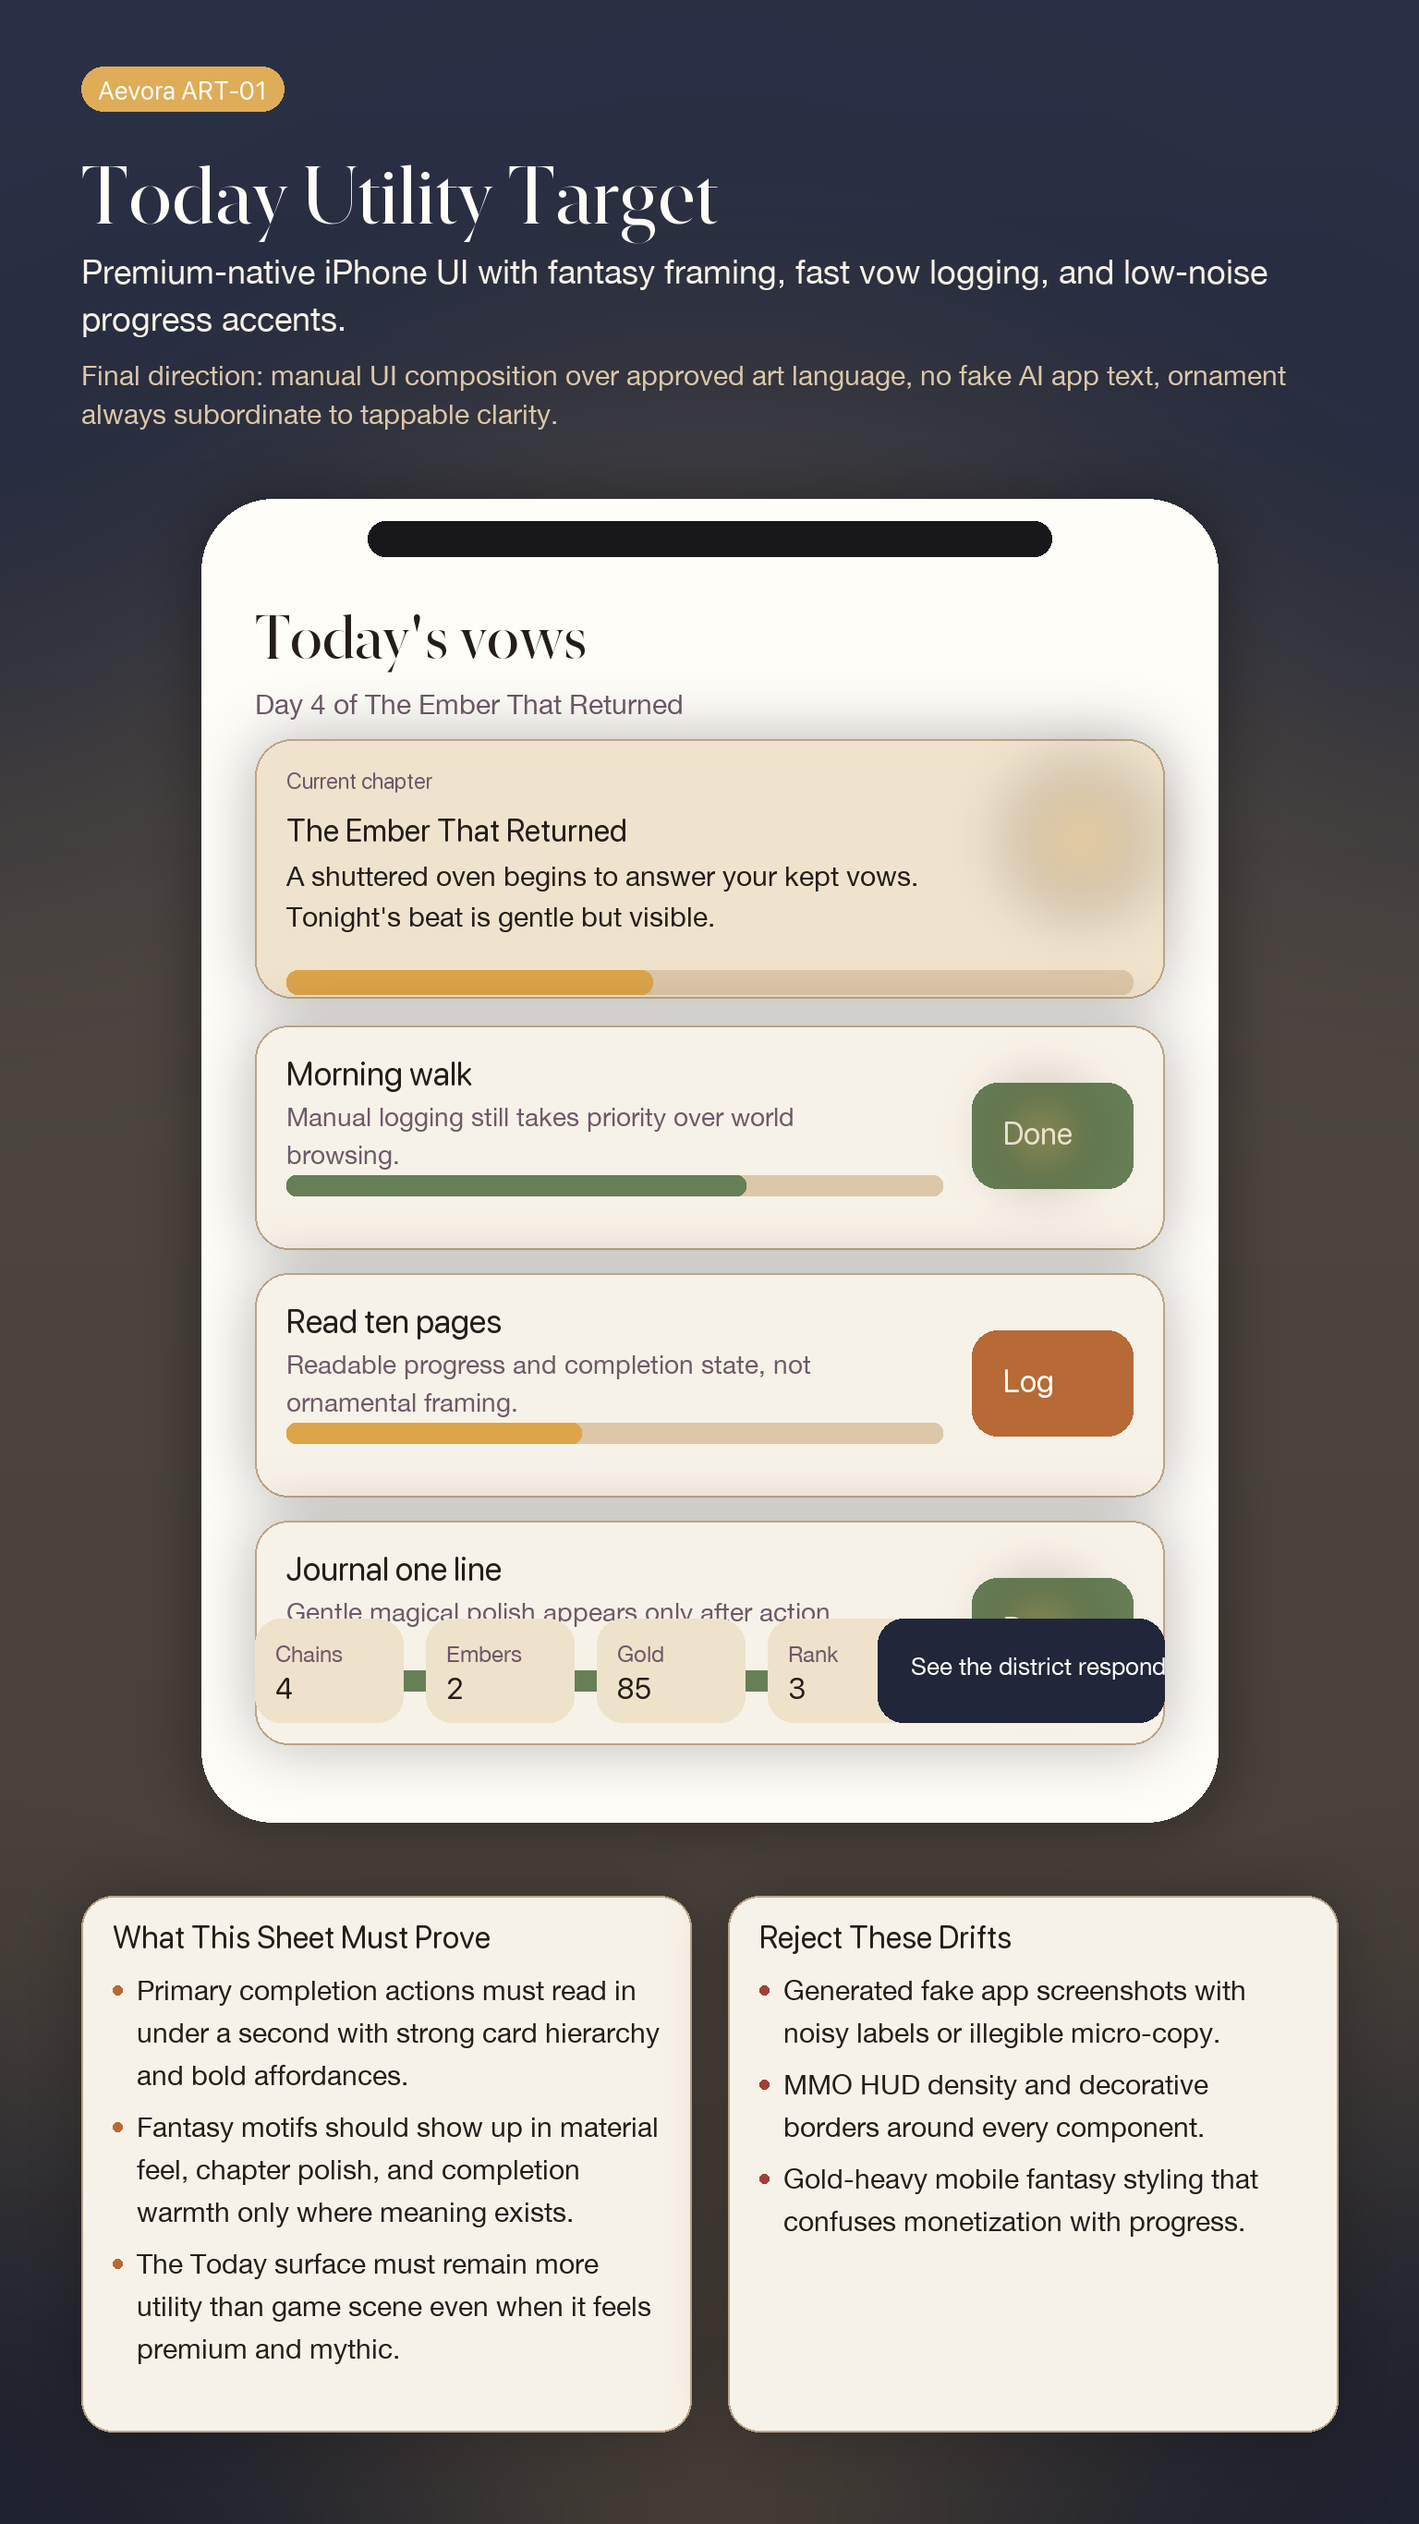
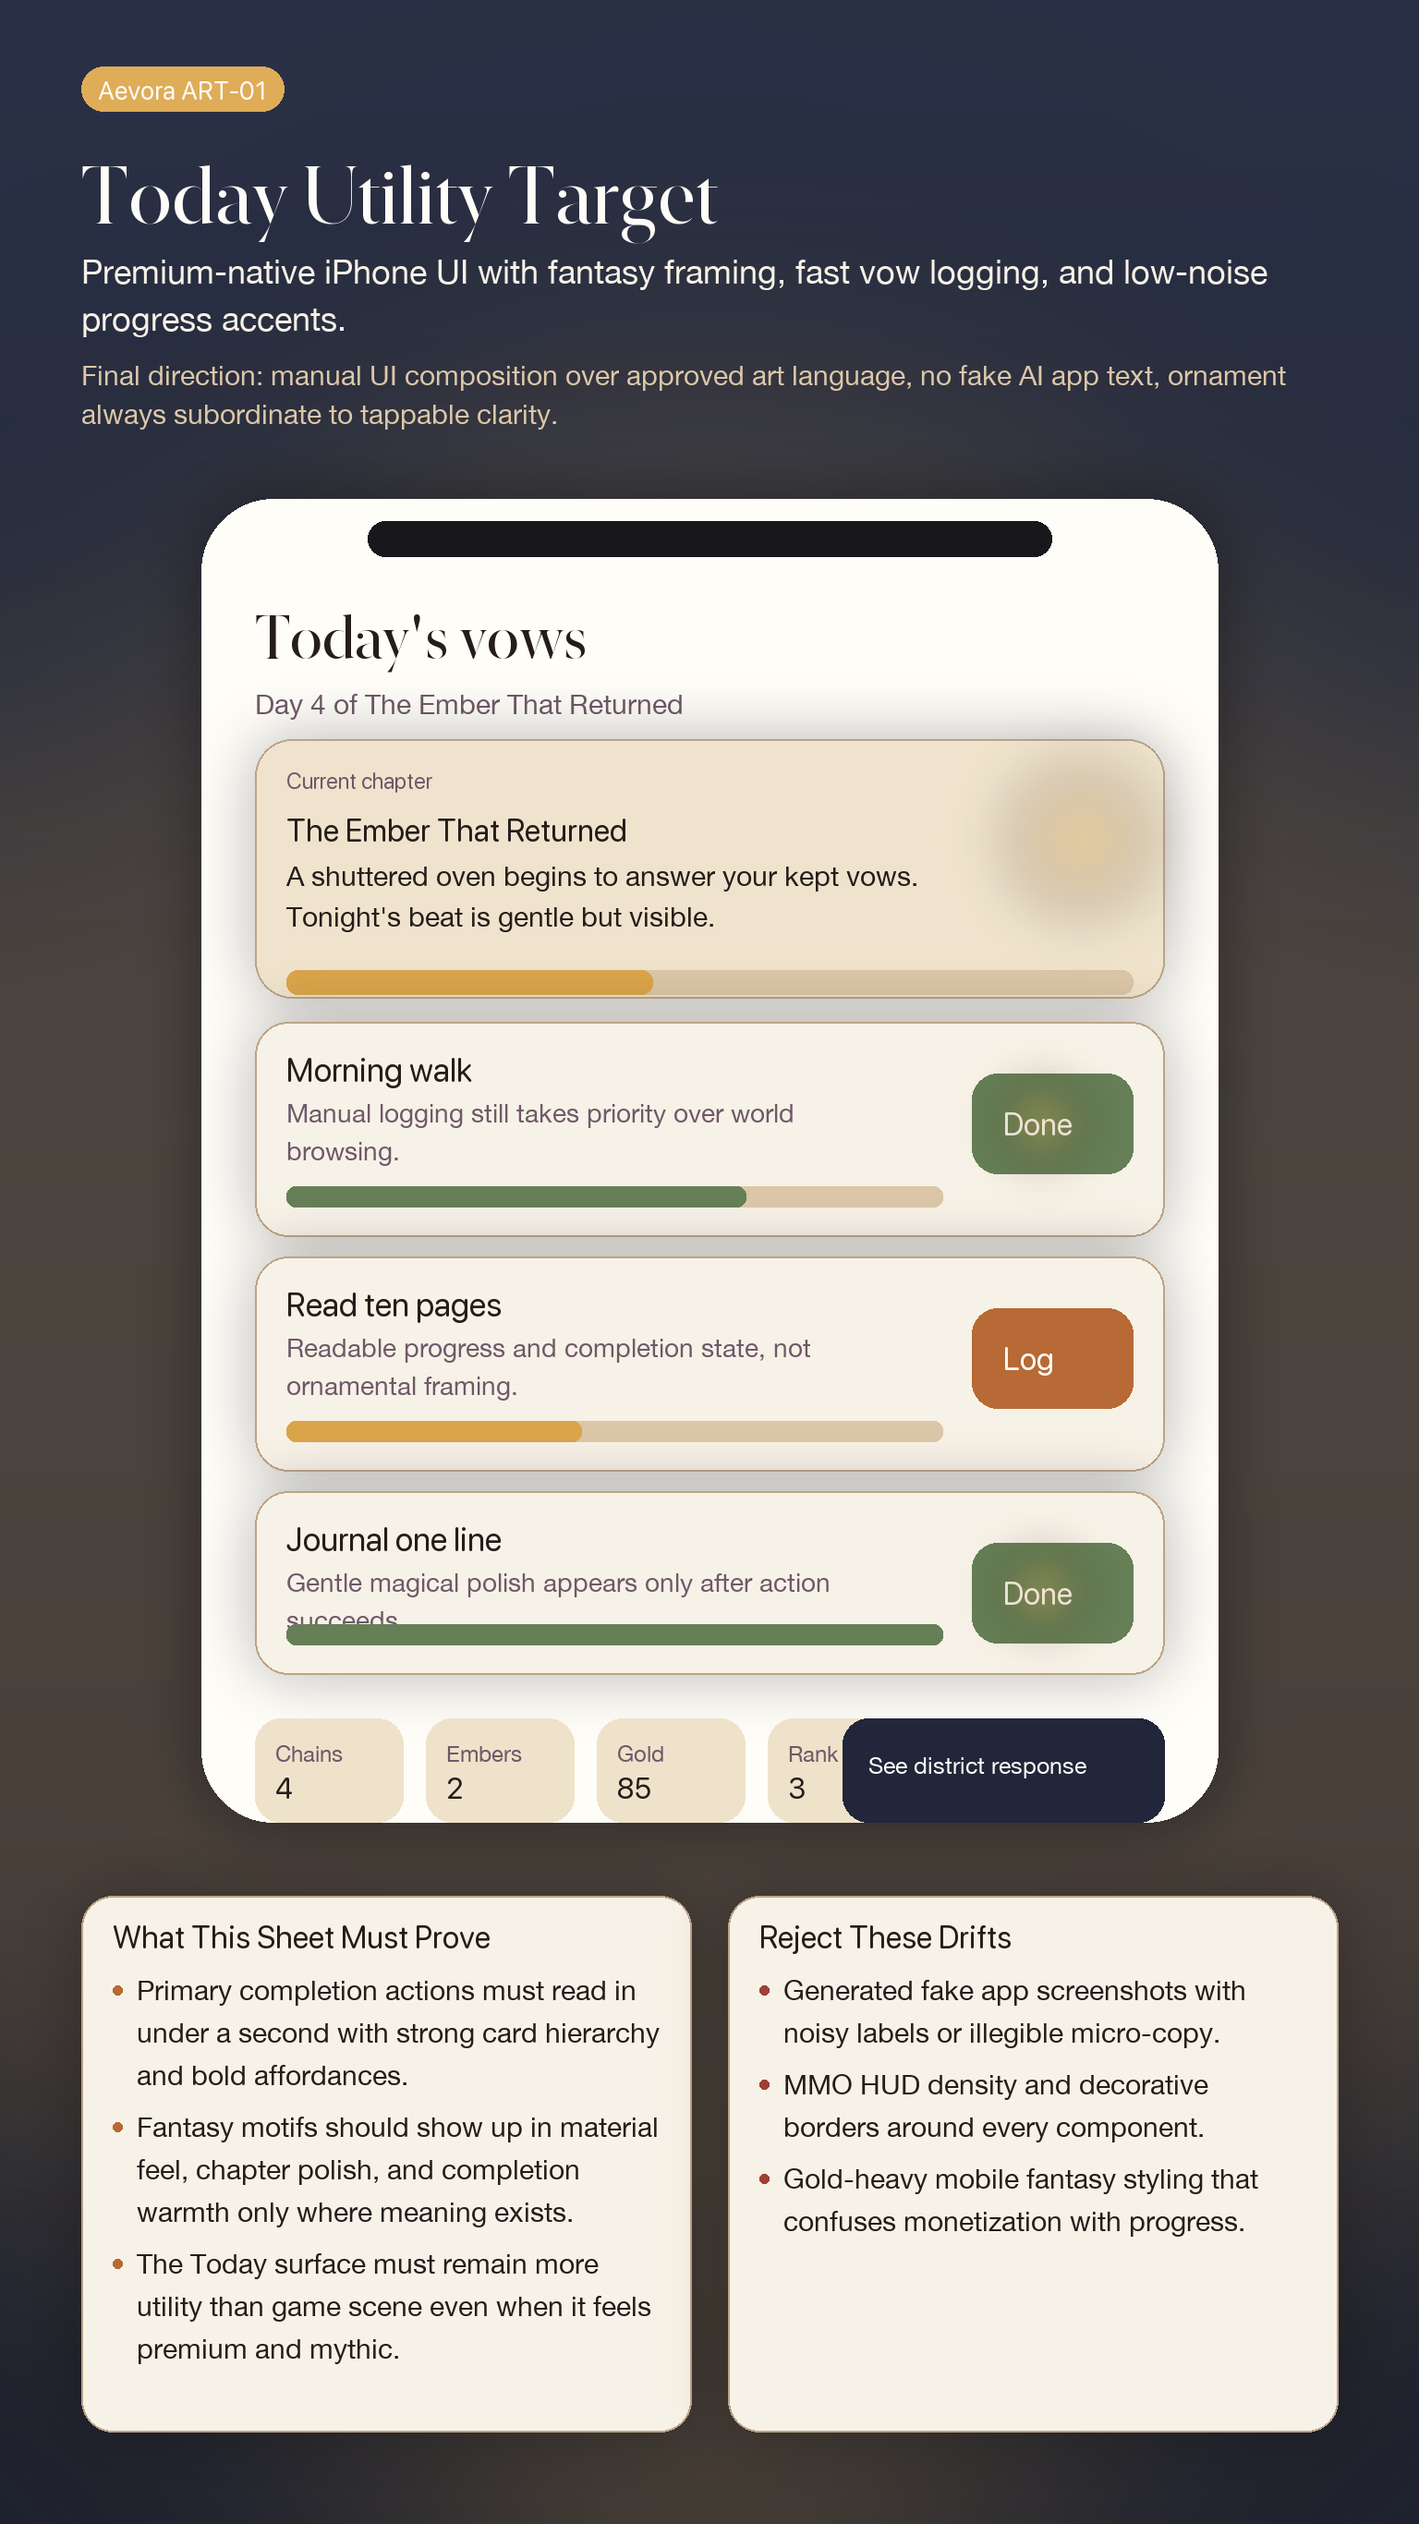
Finalize ART-01 cleanup rerender

Changed region(s): [[0.1562, 0.4045, 0.8438, 0.7467]]

diff --git a/ops/assets/art/generate_art_01_target_sheets.py b/ops/assets/art/generate_art_01_target_sheets.py
@@ -269,25 +269,35 @@ def draw_world_sheet() -> None:
     sigil = sigil.filter(ImageFilter.GaussianBlur(4))
     image.alpha_composite(sigil)
 
-    draw.rounded_rectangle((230, 1380, 1260, 1550), radius=30, fill=rgba(PALETTE["cream"], 214))
-    draw.text((270, 1422), "Repair-state cue: soot clears, lantern warmth returns, bustle grows, geometry resolves.", font=font("body", 34), fill=rgba(PALETTE["ink"]))
+    callout_box = (214, 1366, 964, 1566)
+    draw.rounded_rectangle(callout_box, radius=30, fill=rgba(PALETTE["cream"], 222))
+    draw.text((250, 1402), "Repair-state cue", font=font("accent", 28), fill=rgba(PALETTE["ash"]))
+    draw_text_block(
+        draw,
+        "Soot clears. Lantern warmth returns. Bustle grows. Geometry resolves into order.",
+        (250, 1442),
+        font("body", 31),
+        rgba(PALETTE["ink"]),
+        620,
+        line_gap=6,
+    )
 
-    inset_box = (1080, 1380, 1365, 1660)
+    inset_box = (1048, 1450, 1324, 1690)
     panel(image, inset_box, PALETTE["indigo_deep"], PALETTE["stone"], radius=30)
-    draw.text((1116, 1412), "Before / After", font=font("accent", 28), fill=rgba(PALETTE["cream"]))
-    draw.rounded_rectangle((1114, 1464, 1220, 1608), radius=18, fill=rgba(PALETTE["ash"]))
-    draw.rounded_rectangle((1234, 1464, 1340, 1608), radius=18, fill=rgba(PALETTE["moss"]))
-    glow_circle(image, (1288, 1528), 42, PALETTE["dawn"], 120)
+    draw.text((1076, 1482), "Before / After", font=font("accent", 26), fill=rgba(PALETTE["cream"]))
+    draw.rounded_rectangle((1080, 1534, 1188, 1652), radius=18, fill=rgba(PALETTE["ash"]))
+    draw.rounded_rectangle((1198, 1534, 1306, 1652), radius=18, fill=rgba(PALETTE["moss"]))
+    glow_circle(image, (1252, 1592), 38, PALETTE["dawn"], 120)
 
     for x, y, fill in [(640, 1250, PALETTE["parchment"]), (885, 1010, PALETTE["moss"]), (1125, 1015, PALETTE["parchment"])]:
         draw.ellipse((x - 22, y - 22, x + 22, y + 22), fill=rgba(fill))
         draw.rectangle((x - 10, y + 22, x + 10, y + 54), fill=rgba(fill))
 
     swatches = [("Moon Indigo", PALETTE["indigo"]), ("Dawn Gold", PALETTE["dawn"]), ("Ember Copper", PALETTE["ember"]), ("Moss Green", PALETTE["moss"])]
-    base_x = MARGIN
+    base_x = 84
     for label, color in swatches:
-        swatch(draw, label, color, (base_x, 1610))
-        base_x += 170
+        swatch(draw, label, color, (base_x, 1720))
+        base_x += 190
 
     footer_notes(image, meta)
     image.save(OUT_DIR / meta.filename)
@@ -425,18 +435,37 @@ def draw_npc_sheet() -> None:
         row = index // 3
         x = start_x + col * gap_x
         y = start_y + row * gap_y
-        panel(image, (x, y, x + 330, y + 320), PALETTE["cream"], PALETTE["stone"], radius=28)
-        draw.ellipse((x + 104, y + 40, x + 226, y + 162), fill=rgba(accent))
-        draw.rounded_rectangle((x + 80, y + 152, x + 250, y + 282), radius=28, fill=rgba(PALETTE["indigo"], 180))
+        panel(image, (x, y, x + 330, y + 344), PALETTE["cream"], PALETTE["stone"], radius=28)
+        draw.ellipse((x + 104, y + 30, x + 226, y + 152), fill=rgba(accent))
+        draw.rounded_rectangle((x + 80, y + 134, x + 250, y + 244), radius=28, fill=rgba(PALETTE["indigo"], 180))
         if name == "Pollen":
-            glow_circle(image, (x + 170, y + 120), 72, PALETTE["dawn"], 140)
-            draw.polygon([(x + 110, y + 120), (x + 150, y + 90), (x + 136, y + 148)], fill=rgba(PALETTE["cream"]))
-            draw.polygon([(x + 230, y + 120), (x + 190, y + 90), (x + 204, y + 148)], fill=rgba(PALETTE["cream"]))
+            glow_circle(image, (x + 170, y + 106), 60, PALETTE["dawn"], 130)
+            draw.polygon([(x + 118, y + 106), (x + 150, y + 80), (x + 138, y + 136)], fill=rgba(PALETTE["cream"]))
+            draw.polygon([(x + 222, y + 106), (x + 190, y + 80), (x + 202, y + 136)], fill=rgba(PALETTE["cream"]))
+            draw.arc((x + 124, y + 118, x + 216, y + 206), start=15, end=150, fill=rgba(PALETTE["cream"]), width=8)
         else:
-            draw.rectangle((x + 152, y + 188, x + 178, y + 250), fill=rgba(accent))
-        draw.text((x + 26, y + 232), name, font=font("accent", 25), fill=rgba(PALETTE["ink"]))
-        draw.text((x + 26, y + 266), role, font=font("body", 23), fill=rgba(PALETTE["ash"]))
-        draw.text((x + 26, y + 292), prop, font=font("body", 21), fill=rgba(PALETTE["ember"]))
+            draw.rectangle((x + 154, y + 166, x + 176, y + 224), fill=rgba(accent))
+
+        prop_y = y + 214
+        if name == "Maerin Vale":
+            draw.ellipse((x + 42, prop_y, x + 82, prop_y + 40), fill=rgba(PALETTE["ember"]))
+        elif name == "Sera Quill":
+            draw.rectangle((x + 38, prop_y - 2, x + 84, prop_y + 34), fill=rgba(PALETTE["silver"]))
+            draw.line([(x + 46, prop_y + 10), (x + 76, prop_y + 10)], fill=rgba(PALETTE["indigo"]), width=3)
+        elif name == "Tovan Hearth":
+            draw.rectangle((x + 40, prop_y + 6, x + 52, prop_y + 56), fill=rgba(PALETTE["ember"]))
+            draw.ellipse((x + 34, prop_y, x + 58, prop_y + 18), fill=rgba(PALETTE["dawn"]))
+        elif name == "Brigant Hal":
+            draw.rectangle((x + 40, prop_y - 2, x + 50, prop_y + 58), fill=rgba(PALETTE["moss"]))
+            draw.polygon([(x + 50, prop_y + 2), (x + 74, prop_y + 12), (x + 50, prop_y + 22)], fill=rgba(PALETTE["silver"]))
+        elif name == "Ilya Fen":
+            draw.rectangle((x + 36, prop_y, x + 84, prop_y + 38), fill=rgba(PALETTE["stone"]))
+            draw.ellipse((x + 74, prop_y + 4, x + 88, prop_y + 18), fill=rgba(PALETTE["ember"]))
+
+        label_y = y + 252
+        draw.text((x + 24, label_y), name, font=font("accent", 23), fill=rgba(PALETTE["ink"]))
+        draw.text((x + 24, label_y + 30), role, font=font("body", 21), fill=rgba(PALETTE["ash"]))
+        draw.text((x + 24, label_y + 58), prop, font=font("body", 19), fill=rgba(PALETTE["ember"]))
 
     draw.rounded_rectangle((160, 1590, 1376, 1735), radius=30, fill=rgba(PALETTE["cream"], 220))
     draw_text_block(
@@ -558,36 +587,39 @@ def draw_today_sheet() -> None:
     draw.rounded_rectangle((chapter[0] + 34, chapter[1] + 250, chapter[0] + 430, chapter[1] + 276), radius=12, fill=rgba(PALETTE["dawn"]))
     glow_circle(image, (chapter[2] - 90, chapter[1] + 108), 70, PALETTE["dawn"], 90)
 
-    y = chapter[3] + 30
+    y = chapter[3] + 26
     cards = [
         ("Morning walk", "Manual logging still takes priority over world browsing.", 0.7, True),
         ("Read ten pages", "Readable progress and completion state, not ornamental framing.", 0.45, False),
         ("Journal one line", "Gentle magical polish appears only after action succeeds.", 1.0, True),
     ]
-    for title, subtitle, progress, done in cards:
-        card = (content[0], y, content[2], y + 242)
+    for index, (title, subtitle, progress, done) in enumerate(cards):
+        card_height = 232 if index < 2 else 198
+        card = (content[0], y, content[2], y + card_height)
         panel(image, card, PALETTE["cream"], PALETTE["stone"], radius=36)
         draw.text((card[0] + 34, card[1] + 30), title, font=font("accent", 36), fill=rgba(PALETTE["ink"]))
-        draw_text_block(draw, subtitle, (card[0] + 34, card[1] + 82), font("body", 28), rgba(PALETTE["ash"]), 650)
-        draw.rounded_rectangle((card[0] + 34, card[1] + 162, card[2] - 240, card[1] + 184), radius=10, fill=rgba(PALETTE["parchment_deep"]))
-        draw.rounded_rectangle((card[0] + 34, card[1] + 162, int(card[0] + 34 + (card[2] - card[0] - 274) * progress), card[1] + 184), radius=10, fill=rgba(PALETTE["moss"] if done else PALETTE["dawn"]))
+        draw_text_block(draw, subtitle, (card[0] + 34, card[1] + 82), font("body", 28), rgba(PALETTE["ash"]), 620)
+        progress_y = card[1] + card_height - 54
+        draw.rounded_rectangle((card[0] + 34, progress_y, card[2] - 240, progress_y + 22), radius=10, fill=rgba(PALETTE["parchment_deep"]))
+        draw.rounded_rectangle((card[0] + 34, progress_y, int(card[0] + 34 + (card[2] - card[0] - 274) * progress), progress_y + 22), radius=10, fill=rgba(PALETTE["moss"] if done else PALETTE["dawn"]))
         btn_fill = PALETTE["moss"] if done else PALETTE["ember"]
-        btn_box = (card[2] - 208, card[1] + 62, card[2] - 34, card[1] + 176)
+        btn_box = (card[2] - 208, card[1] + 56, card[2] - 34, card[1] + 164)
         draw.rounded_rectangle(btn_box, radius=28, fill=rgba(btn_fill))
         draw.text((btn_box[0] + 34, btn_box[1] + 34), "Done" if done else "Log", font=font("accent", 34), fill=rgba(PALETTE["white"]))
         if done:
-            glow_circle(image, (card[2] - 132, card[1] + 118), 54, PALETTE["dawn"], 78)
-        y += 268
+            glow_circle(image, (card[2] - 132, card[1] + 108), 46, PALETTE["dawn"], 72)
+        y += card_height + 22
 
-    stat_y = phone[3] - 220
+    stat_y = y + 26
     for idx, (label, value) in enumerate([("Chains", "4"), ("Embers", "2"), ("Gold", "85"), ("Rank", "3")]):
         x = content[0] + idx * 185
         draw.rounded_rectangle((x, stat_y, x + 160, stat_y + 112), radius=28, fill=rgba(PALETTE["parchment"]))
         draw.text((x + 22, stat_y + 24), label, font=font("body", 24), fill=rgba(PALETTE["ash"]))
         draw.text((x + 22, stat_y + 56), value, font=font("accent", 32), fill=rgba(PALETTE["ink"]))
 
-    draw.rounded_rectangle((content[2] - 310, stat_y, content[2], stat_y + 112), radius=28, fill=rgba(PALETTE["indigo"]))
-    draw.text((content[2] - 274, stat_y + 36), "See the district respond", font=font("body", 26), fill=rgba(PALETTE["white"]))
+    cta_box = (content[2] - 348, stat_y, content[2], stat_y + 112)
+    draw.rounded_rectangle(cta_box, radius=28, fill=rgba(PALETTE["indigo"]))
+    draw.text((cta_box[0] + 28, stat_y + 36), "See district response", font=font("body", 25), fill=rgba(PALETTE["white"]))
 
     footer_notes(image, meta)
     image.save(OUT_DIR / meta.filename)

diff --git a/docs/specs/art/ART-01-visual-target-sheets-pack.md b/docs/specs/art/ART-01-visual-target-sheets-pack.md
@@ -18,8 +18,8 @@ Aevora already has its core product surfaces implemented. The missing piece is a
 - `ios/Aevora/Features/World/WorldRootView.swift`
 - `ios/Aevora/Features/World/WorldScene.swift`
 - `ios/Aevora/Features/Hearth/HearthRootView.swift`
-- `/Users/donghokang/Downloads/Aevora_ART-01_visual_target_sheets_kickoff_pack.md`
-- `/Users/donghokang/Downloads/Aevora_ART-01_art_generation_execution_workflow_v2.md`
+
+Initial kickoff and workflow notes originally lived outside the repo. Their required direction has been absorbed into this pack, the prompt log, and the local renderer workflow so the canonical ART-01 record is now repo-local.
 
 ## Output / canonical artifact
 - Canonical pack: `docs/specs/art/ART-01-visual-target-sheets-pack.md`
@@ -36,6 +36,14 @@ Aevora already has its core product surfaces implemented. The missing piece is a
 
 ## Execution note
 This workspace does not have a configured external image-generation client or API key. To keep `ART-01` moving without inventing a second workflow, this pack uses the kickoff prompts as the design input and renders the selected directions locally into portrait target sheets. The exact prompt language is preserved in the prompt log so the same set can later be rerun through an external image-model bake-off if desired.
+
+## Renderer QA gate
+A target sheet cannot be marked final if any of the following is true:
+- annotation text is truncated
+- a callout is covered by an inset or figure
+- a label sits underneath a silhouette or body block
+- the primary phone or UI composition reads as crowded instead of intentional
+- a support note becomes harder to scan than the focal visual
 
 ## Visual thesis recap
 - Aevora should feel like heroic coziness in a living mythic city.
@@ -298,3 +306,6 @@ The strip keeps strong family groupings while letting civilian and scholarly sil
 - Do civilian, scholarly, and mercantile fantasies read as strongly as martial ones?
 - Does Cyrane feel like a specific city with civic memory instead of a fantasy kitbash?
 - Can these sheets hand off directly into tokens, UI kit, avatar, NPC, tile, prop, repair-state, item, and FX production?
+
+## Signoff status
+The cleanup rerender requested by the ART-01 addendum is complete. With the Today, World, and NPC sheets corrected and the repo-local workflow tightened by the renderer QA gate, ART-01 should now be treated as fully approved and ready to hand off into `ART-03`, `ART-04`, one polished Today pass, and the later production-tool bake-off for sprite, tile, and animation work.
